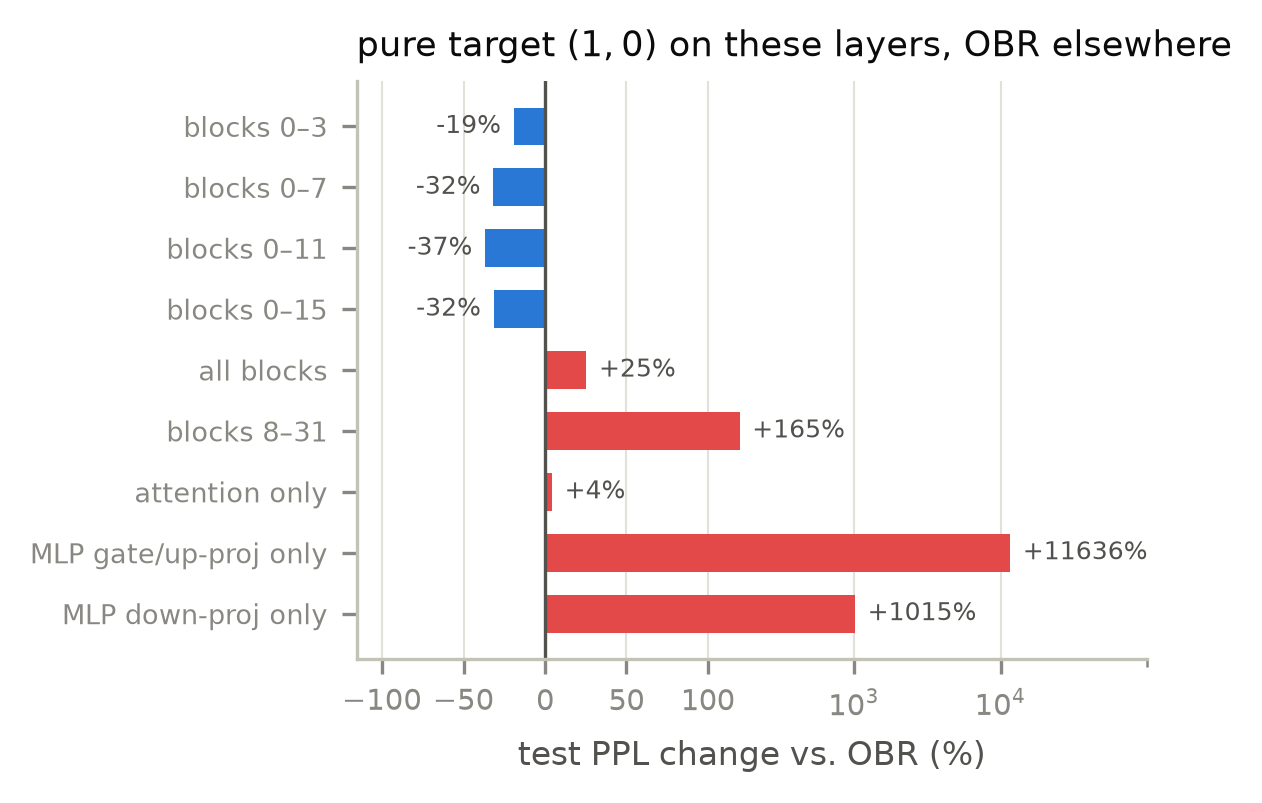
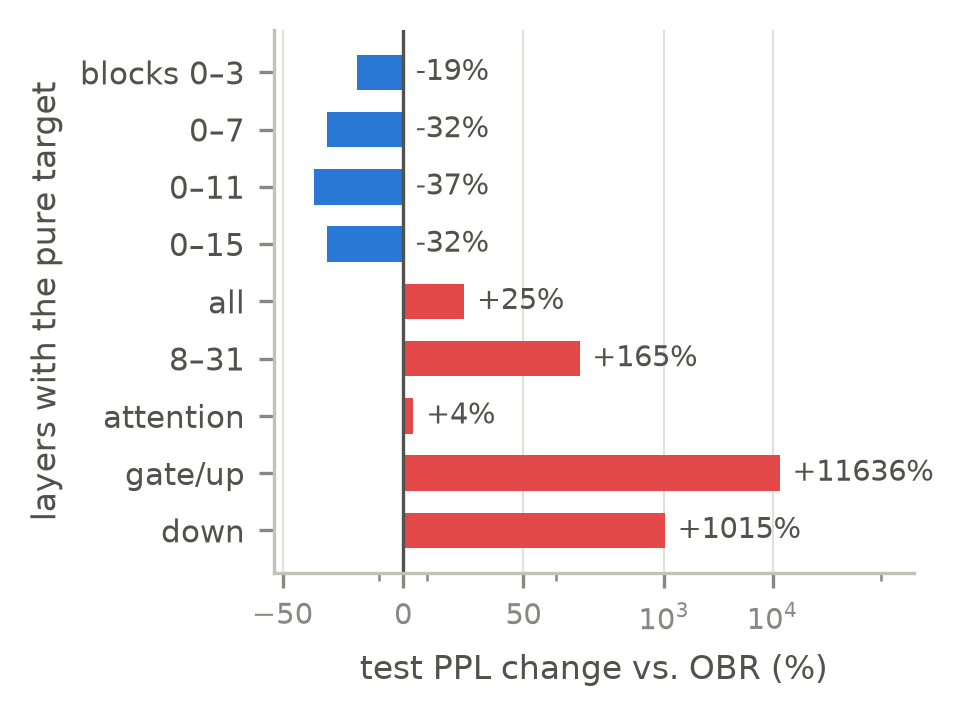
fix(visualize): size the localization and pairwise figures for print
The localization bars drop the panel title and use short row labels, so the
tight bounding box is one column wide and the text prints near full size;
every value label sits right of its bar or of the zero line. The pairwise
layout legend moves beside panel (b), removing the empty band above it.

Changed region(s): [[0.0311, 0.0307, 0.9959, 0.9819], [0.0622, 0.0921, 0.249, 0.1227]]

diff --git a/visualize/plots/mixture_grid.py b/visualize/plots/mixture_grid.py
@@ -277,6 +277,15 @@ LOCALIZATION_ORDER = (
 )
 
 
+# Axis labels of the localization rows: block ranges and sublayer groups.
+LOCALIZATION_SHORT = {
+    "blocks 0--3": "blocks 0–3", "blocks 0--7": "0–7", "blocks 0--11": "0–11",
+    "blocks 0--15": "0–15", "all blocks": "all", "blocks 8--31": "8–31",
+    "attention only": "attention", "MLP gate/up-proj only": "gate/up",
+    "MLP down-proj only": "down",
+}
+
+
 def localization() -> None:
     """Change of test PPL against OBR with the pure target on a subset of layers."""
     tags = dict(P.LOCALIZATION_ROWS)
@@ -291,24 +300,24 @@ def localization() -> None:
         print("localization: the localized runs are missing, skipping")
         return
     deltas = [T.delta_vs_obr(records[label], obr) for label in labels]
-    fig, ax = S.plt.subplots(figsize=(3.4, 2.5))
+    # Axes width chosen so the tight bounding box, y labels included, is one column (~3.3 in).
+    fig, ax = S.plt.subplots(figsize=(2.75, 2.35))
     ys = list(range(len(labels)))[::-1]
     colors = [S.SERIES[0] if d < 0 else WORSE for d in deltas]
     ax.barh(ys, deltas, color=colors, height=0.62)
-    for y, d in zip(ys, deltas):
-        ax.annotate(f"{d:+.0f}%", (d, y), textcoords="offset points",
-                    xytext=(3 if d >= 0 else -3, 0), ha="left" if d >= 0 else "right",
-                    va="center", fontsize=6, color=S.INK_2)
+    for y, d in zip(ys, deltas):  # every value right of its bar or of the zero line
+        ax.annotate(f"{d:+.0f}%", (max(d, 0.0), y), textcoords="offset points", xytext=(3, 0),
+                    ha="left", va="center", fontsize=7, color=S.INK_2)
     ax.axvline(0, color=S.INK_2, linewidth=0.8)
-    ax.set_xscale("symlog", linthresh=100)
-    ax.set_xlim(-150, 1e5)
-    ax.set_xticks([-100, -50, 0, 50, 100, 1000, 10000])
-    ax.set_xticklabels(["$-$100", "$-$50", "0", "50", "100", "10$^3$", "10$^4$"])
-    ax.set_yticks(ys, [label.replace("--", "–") for label in labels])
-    ax.tick_params(axis="y", labelsize=6.5)
+    ax.set_xscale("symlog", linthresh=50)
+    ax.set_xlim(-60, 2e5)
+    ax.set_xticks([-50, 0, 50, 1000, 10000])
+    ax.set_xticklabels(["$-$50", "0", "50", "10$^3$", "10$^4$"])
+    ax.set_yticks(ys, [LOCALIZATION_SHORT[label] for label in labels])
+    ax.tick_params(axis="y", labelsize=7.5, labelcolor=S.INK_2)
     ax.grid(axis="y", visible=False)
+    ax.set_ylabel("layers with the pure target")
     ax.set_xlabel("test PPL change vs. OBR (%)")
-    S.panel_label(ax, r"pure target $(1,0)$ on these layers, OBR elsewhere")
     S.save(fig, "results__mixture_grid__llama2-7b__localization-w4a4-s70")
 
 

diff --git a/visualize/plots/pairwise_layout.py b/visualize/plots/pairwise_layout.py
@@ -36,7 +36,7 @@ def draw_row(ax, y: float, row: tuple[int, ...], group: int, cell: float = 1.0) 
 
 def patterns() -> None:
     fig, (left, right) = S.plt.subplots(
-        1, 2, figsize=(6.9, 1.3), gridspec_kw={"width_ratios": [1.45, 1]}
+        1, 2, figsize=(6.9, 1.15), gridspec_kw={"width_ratios": [1.45, 1]}
     )
     rows = (
         ("element-wise 2:4", ELEMENTWISE_24, 4),
@@ -45,7 +45,7 @@ def patterns() -> None:
     for i, (label, row, group) in enumerate(rows):
         y = 2.2 * (len(rows) - 1 - i)
         draw_row(left, y, row, 8)
-        left.text(-0.6, y + 0.45, label, ha="right", va="center", fontsize=7, color=S.INK)
+        left.text(-0.6, y + 0.45, label, ha="right", va="center", fontsize=7.5, color=S.INK)
         for k in range(0, 16, group):  # bracket the groups the constraint acts on
             x = k + (k // 8) * 0.5
             left.plot([x + 0.05, x + group - 0.15], [y - 0.3, y - 0.3],
@@ -70,8 +70,8 @@ def patterns() -> None:
         ax.axis("off")
     handles = [Rectangle((0, 0), 1, 1, facecolor=KEPT, edgecolor=S.INK_2, linewidth=0.6),
                Rectangle((0, 0), 1, 1, facecolor=PRUNED, edgecolor=S.INK_2, linewidth=0.6)]
-    fig.legend(handles, ["retained", "pruned"], loc="lower center", ncol=2,
-               bbox_to_anchor=(0.5, -0.08), frameon=False)
+    right.legend(handles, ["retained", "pruned"], loc="center left", ncol=1,
+                 bbox_to_anchor=(1.0, 0.45), frameon=False, fontsize=7)
     S.save(fig, "method__pairwise_layout__all__patterns")
 
 
